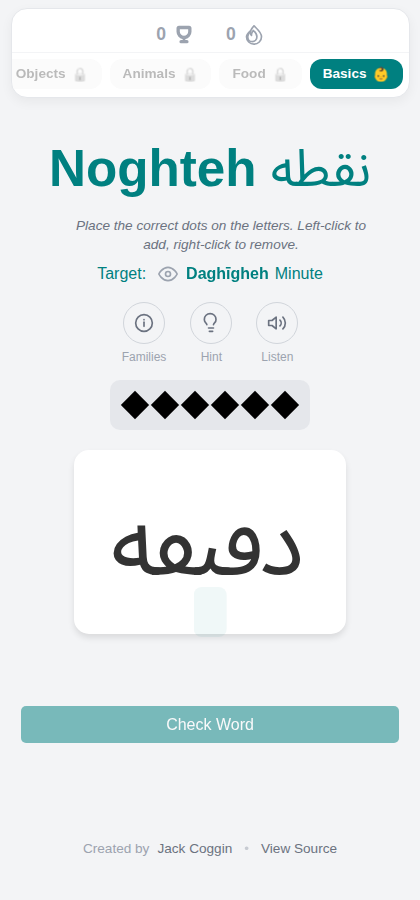
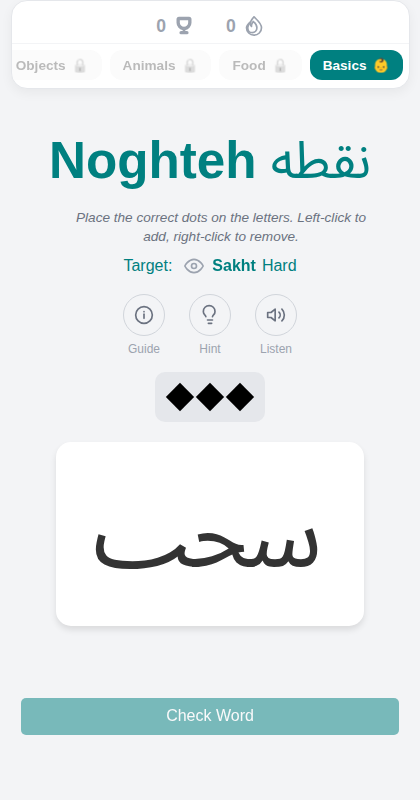
style: larger intro text, rename Families button to Guide
- Bump heading/body/letter text sizes in the intro card now that it has
  more vertical room.
- Rename the header button (and its title/aria label) from "Families"
  to "Guide", since the intro now covers the whole app, not just letter
  families.

diff --git a/src/App.css b/src/App.css
@@ -435,10 +435,11 @@ button:active {
 .family-intro-card h2 {
   margin: 0 0 16px;
   color: teal;
+  font-size: 1.6rem;
 }
 
 .family-intro-copy {
-  font-size: 0.95rem;
+  font-size: 1.1rem;
   color: #6b7280;
   line-height: 1.7;
   margin: 0 0 20px;
@@ -467,7 +468,7 @@ button:active {
 }
 
 .family-arrow {
-  font-size: 0.75rem;
+  font-size: 0.85rem;
   color: #9ca3af;
   font-weight: 600;
 }
@@ -485,8 +486,8 @@ button:active {
 }
 
 .preview-char {
-  font-size: 40px;
-  line-height: 40px;
+  font-size: 46px;
+  line-height: 46px;
   color: #333;
 }
 
@@ -522,8 +523,8 @@ button:active {
 
 @media (max-width: 480px) {
   .preview-char {
-    font-size: 34px;
-    line-height: 34px;
+    font-size: 38px;
+    line-height: 38px;
   }
 }
 

diff --git a/src/App.jsx b/src/App.jsx
@@ -112,12 +112,12 @@ export default function NoghtehGame() {
           <button
             className="icon-btn-wrapper"
             onClick={openIntro}
-            title="Letter Families"
+            title="Guide"
           >
             <div className="icon-circle">
               <InfoIcon />
             </div>
-            <span className="icon-label">Families</span>
+            <span className="icon-label">Guide</span>
           </button>
         </div>
       </div>
